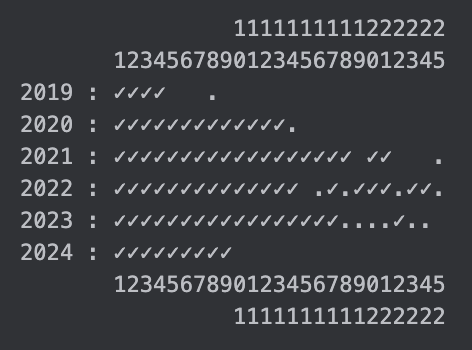
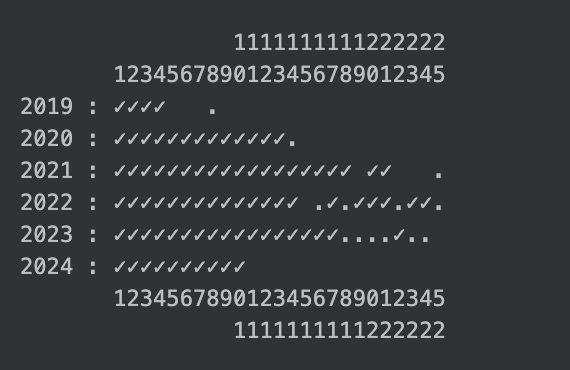
2024.10 tidied up.

diff --git a/src/main/java/com/simongarton/adventofcode/year2024/Year2024Day10.java b/src/main/java/com/simongarton/adventofcode/year2024/Year2024Day10.java
@@ -38,15 +38,8 @@ public class Year2024Day10 extends AdventOfCodeChallenge {
             this.trailHeadScores.put(c, new ArrayList<>());
         }
 
-        System.out.println("Trailheads = " + trailHeads.size());
-
         this.successfulTrails = new ArrayList<>();
         while (this.somethingHappened()) {
-            System.out.println("tick");
-        }
-
-        for (final Trail trail : this.successfulTrails) {
-            System.out.println(trail.breadCrumb());
         }
 
         int score = 0;
@@ -62,19 +55,11 @@ public class Year2024Day10 extends AdventOfCodeChallenge {
         while (somethingHappened) {
             somethingHappened = false;
             final List<Trail> trailsToTest = this.trails.stream().filter(t -> t.active).collect(Collectors.toList());
-            System.out.println("\ntesting " + trailsToTest.size() + " trails ...");
             for (final Trail trail : trailsToTest) {
-                System.out.println("  looking at " + trail);
-                if (!trail.active) {
-                    System.out.println("  not active.");
+                if (!trail.active || this.trailGotThere(trail)) {
                     continue;
                 }
-                if (this.trailGotThere(trail)) {
-                    continue;
-                }
-                if (!this.trailCanMove(trail)) {
-                    System.out.println("  could not move.");
-                }
+                this.moveHiker(trail);
                 somethingHappened = true;
             }
         }
@@ -85,9 +70,7 @@ public class Year2024Day10 extends AdventOfCodeChallenge {
     private boolean trailGotThere(final Trail trail) {
 
         if (trail.height == 9) {
-            System.out.println("    " + trail + " got there !");
 
-            // do I have one yet ?
             final List<Coord> nineCoords = this.trailHeadScores.get(trail.getFirstCoord());
 
             boolean alreadyDone = false;
@@ -108,23 +91,17 @@ public class Year2024Day10 extends AdventOfCodeChallenge {
         return false;
     }
 
-    private int countActiveTrails() {
-
-        return (int) this.trails.stream().filter(t -> t.active).count();
-    }
-
-    private boolean trailCanMove(final Trail trail) {
+    private void moveHiker(final Trail trail) {
 
         final Coord coord = trail.getLastCoord();
         final List<Coord> availableCoords = this.getAvailableCoords(trail.height, coord);
         if (availableCoords.isEmpty()) {
             trail.active = false;
-            return false;
+            return;
 
         }
         this.updateTrails(trail, availableCoords);
 
-        return true;
     }
 
     private void updateTrails(final Trail trail, final List<Coord> availableCoords) {
@@ -136,7 +113,6 @@ public class Year2024Day10 extends AdventOfCodeChallenge {
         if (availableCoords.size() == 1) {
             trail.height = trail.height + 1;
             trail.coords.add(availableCoords.get(0));
-            System.out.println("    continuing on with trail " + trail);
             return;
         }
 
@@ -145,7 +121,6 @@ public class Year2024Day10 extends AdventOfCodeChallenge {
             newTrail = this.cloneTrail(trail);
             newTrail.height = trail.height + 1;
             newTrail.coords.add(c);
-            System.out.println("    Cloned trail " + trail + " to " + newTrail);
         }
         trail.active = false;
     }
@@ -217,21 +192,10 @@ public class Year2024Day10 extends AdventOfCodeChallenge {
             this.trailHeadScores.put(c, new ArrayList<>());
         }
 
-        System.out.println("Trailheads = " + trailHeads.size());
-
         this.successfulTrails = new ArrayList<>();
         while (this.somethingHappened()) {
-            System.out.println("tick");
         }
 
-        for (final Trail trail : this.successfulTrails) {
-            System.out.println(trail.breadCrumb());
-        }
-
-        int score = 0;
-        for (final Map.Entry<Coord, List<Coord>> entry : this.trailHeadScores.entrySet()) {
-            score += entry.getValue().size();
-        }
         return String.valueOf(this.successfulTrails.size());
     }
 

diff --git a/src/main/java/com/simongarton/adventofcode/AdventOfCode.java b/src/main/java/com/simongarton/adventofcode/AdventOfCode.java
@@ -192,6 +192,7 @@ public class AdventOfCode {
         this.challenges.add(new Year2024Day7());
         this.challenges.add(new Year2024Day8());
         this.challenges.add(new Year2024Day9());
+        this.challenges.add(new Year2024Day10());
     }
 
     public AdventOfCode() {

diff --git a/readme.md b/readme.md
@@ -9,6 +9,11 @@ on 1 Dec, and getting progressively harder - I rarely finish the last few days.
 
 ## 2024
 
+## Day 10: Hoof it
+
+OK, now I'm happier again. A map and all about gradients : find paths from low to high, that are orthogonal and always
+go up. Took about 1:15 for the first part and 30 seconds for the second part as I'd already got the info I wanted.
+
 ## Day 9: Disk Fragmenter
 
 ... mutter mutter, grumble grumble ... whose idea was this, anyway ?

diff --git a/progress.md b/progress.md
@@ -5,6 +5,6 @@
     2021 : ✓✓✓✓✓✓✓✓✓✓✓✓✓✓✓✓✓✓ ✓✓   .
     2022 : ✓✓✓✓✓✓✓✓✓✓✓✓✓✓ .✓.✓✓✓.✓✓.
     2023 : ✓✓✓✓✓✓✓✓✓✓✓✓✓✓✓✓✓....✓..
-    2024 : ✓✓✓✓✓✓✓✓✓
+    2024 : ✓✓✓✓✓✓✓✓✓✓
            1234567890123456789012345
                     1111111111222222
